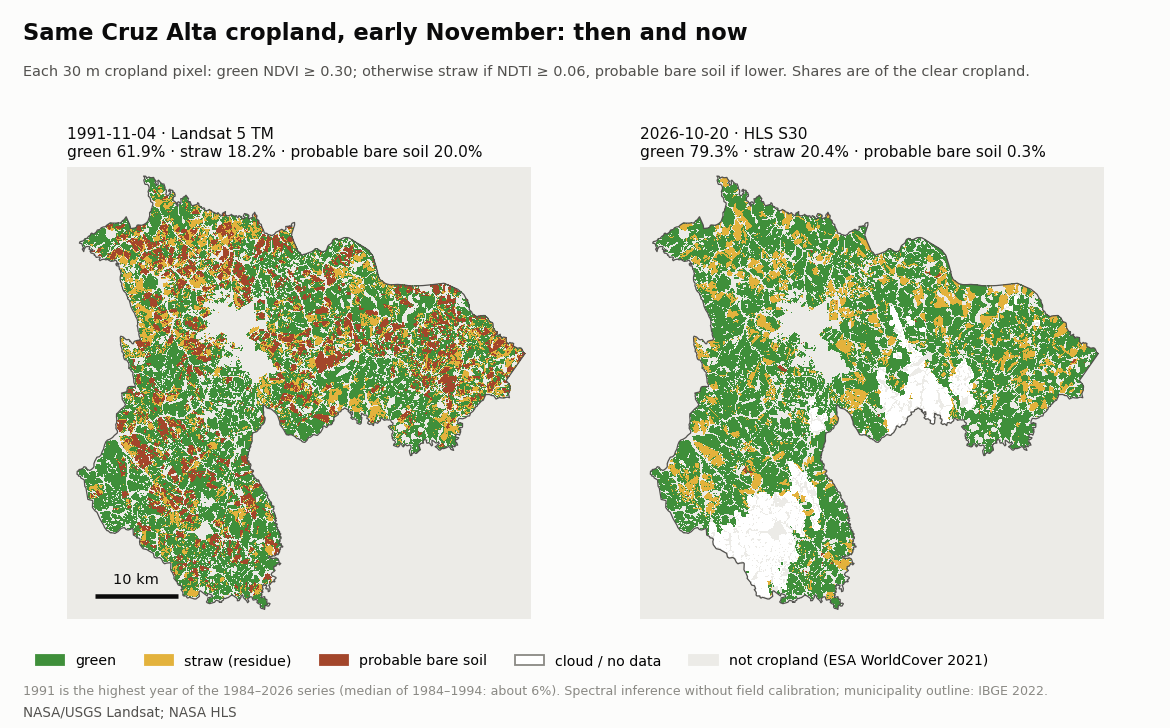
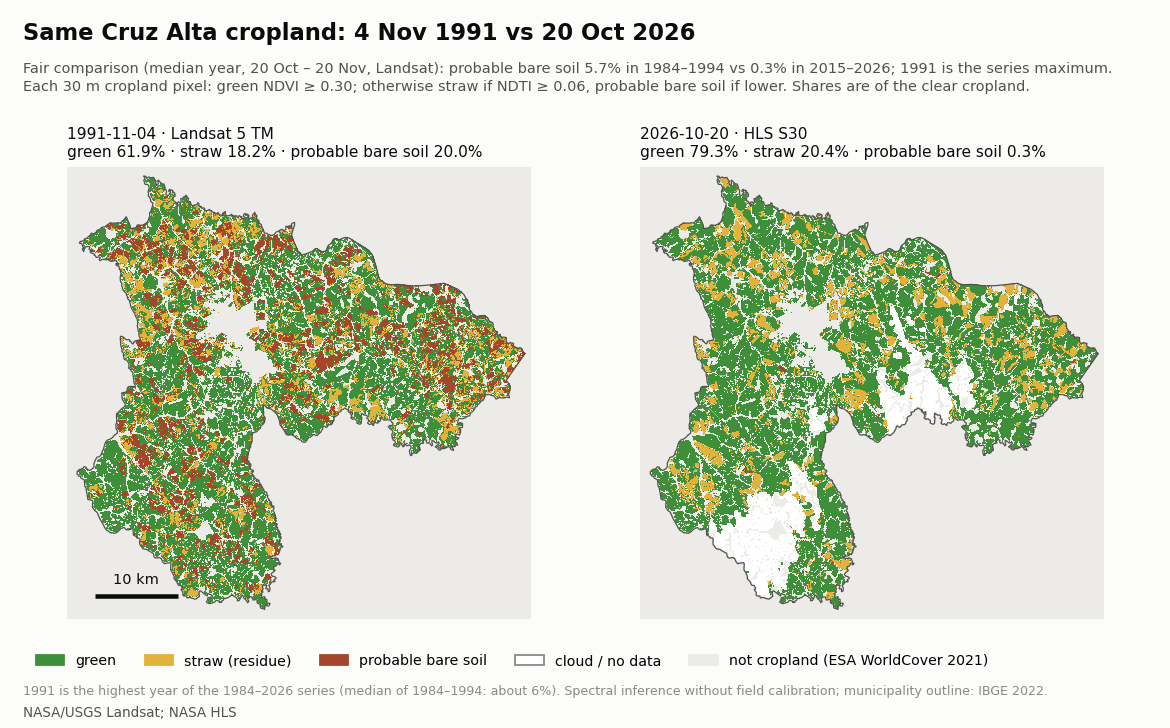
fix(analysis): before/after title with real dates and the median comparison

Changed region(s): [[0.0, 0.0907, 0.9538, 0.1209], [0.2769, 0.0302, 0.6462, 0.0604]]

diff --git a/analysis/residue-landsat/map.py b/analysis/residue-landsat/map.py
@@ -183,10 +183,9 @@ def main() -> None:
     fig.text(
         0.02,
         0.875,
-        "Fair comparison, median year (20 Oct – 20 Nov, Landsat): probable bare soil "
+        "Fair comparison (median year, 20 Oct – 20 Nov, Landsat): probable bare soil "
         f"{ep['spring 1984-1994']['pct_bare_median']}% in 1984–1994 vs "
-        f"{ep['spring 2015-2026']['pct_bare_median']}% in 2015–2026. "
-        f"{d0[-4:]} is the highest year of the series, not a typical one.\n"
+        f"{ep['spring 2015-2026']['pct_bare_median']}% in 2015–2026; {d0[-4:]} is the series maximum.\n"
         f"Each 30 m cropland pixel: green NDVI ≥ {NDVI_MAIN:.2f}; otherwise straw if NDTI ≥ {NDTI_MAIN:.2f}, "
         "probable bare soil if lower. Shares are of the clear cropland.",
         fontsize=8,

diff --git a/analysis/residue-landsat/README.md b/analysis/residue-landsat/README.md
@@ -4,7 +4,7 @@
 
 Method summary for the app: [`content/methods/residue-landsat.md`](../../content/methods/residue-landsat.md).
 
-![Share of Cruz Alta cropland with a probable bare-soil signature in late October to mid November, 1984-2026](results/residue-landsat.png)
+![Share of Cruz Alta no-green cropland at straw cover C < 30% (IN 2/2025 level 1) by the Embrapa Documentos 454 ruler, late October to mid November, 1984-2026](results/residue-landsat.png)
 
 ## Question
 
